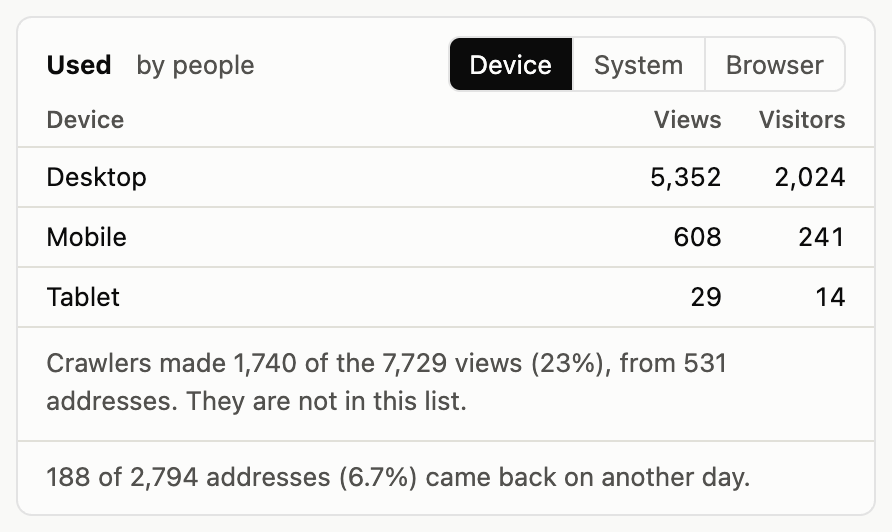
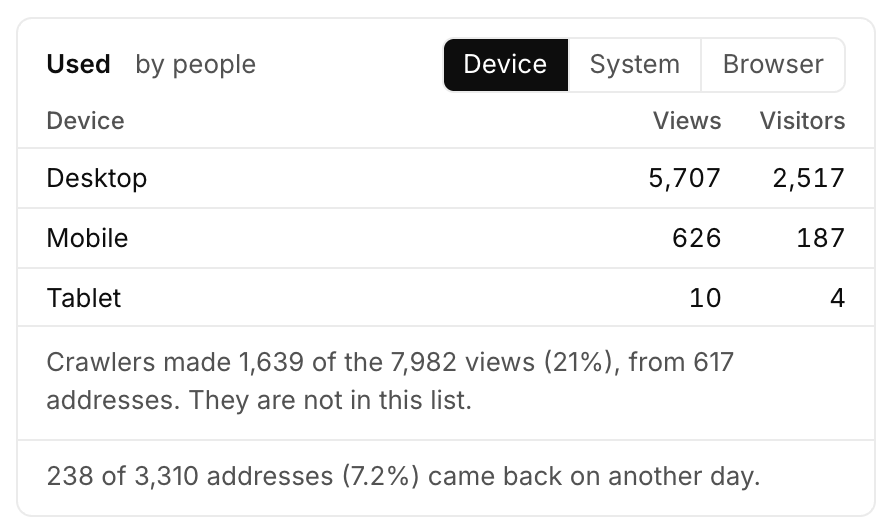
readme: the pictures retaken in the blog's header and the current palette
Every picture is taken again at its old size and framing, from the
dashboard as it now looks: the blog's header with the site in it, Inter
from the binary, and redir's colors. The public views show changkun.de's
real figures from the live service; the views behind the login show
made-up visitors at private addresses, as before.

The "Came from" picture is the Bayesian optimization book over the last
three weeks, where the list is as long as the old one, and its
description names what it now shows.

diff --git a/README.md b/README.md
@@ -41,7 +41,7 @@ dashboard is public: **[changkun.de/urlstat/dashboard](https://changkun.de/urlst
     <td width="50%"><img src=".github/readme/dashboard-dark.png" alt="The dashboard in its dark theme, over one year"><br><sub>Light or dark, after the system until you pick one. Hover or use the arrow keys to read a day.</sub></td>
   </tr>
   <tr>
-    <td><img src=".github/readme/came-from.png" alt="A list of where visits came from: linkedin.com, direct, google.com, github.com and others"><br><sub>Where visits came from, for the period and section in view.</sub></td>
+    <td><img src=".github/readme/came-from.png" alt="A list of where visits came from: direct, google.com, chatgpt.com, github.com and others"><br><sub>Where visits came from, for the period and section in view.</sub></td>
     <td><img src=".github/readme/used.png" alt="What visitors used, by device, with crawlers counted apart"><br><sub>What people used, and how much of the traffic was crawlers.</sub></td>
   </tr>
   <tr>
